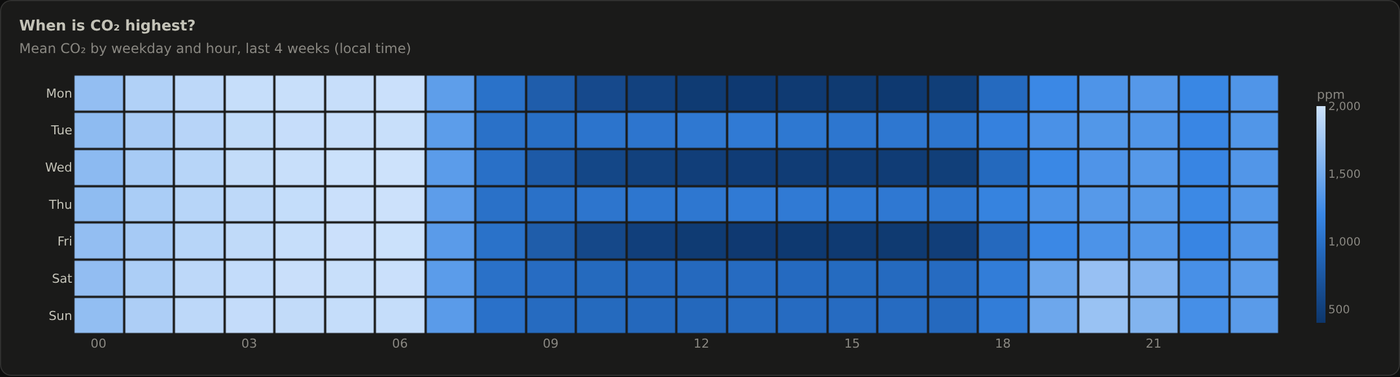
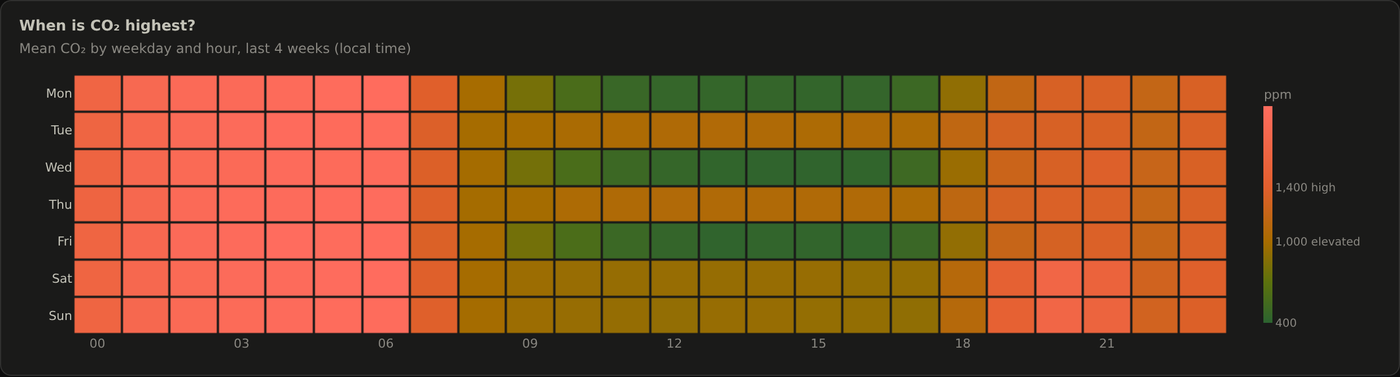
:art: Agent integration: home-sensors (5) (#34)
* :white_check_mark: Test threshold-anchored heatmap colours

:white_check_mark: Cover the new green-amber-red heatmap scale: colour stops sit at
the normalised positions of co2_warn and co2_alert (defaults and a custom
800/1200 pair, with data below and above the 1.15 x alert top), the colour
bar ticks name both thresholds, misconfigured thresholds fall back to
evenly spaced stops, and each theme's ramp is strictly monotonic in
lightness (OKLab L, light darkens and dark lightens toward high CO2).

:recycle: The existing heatmap tests change intentionally: the blue-ramp
end-colour assertions go, and the calm-case zmax moves from 1400 to
alert * 1.15 = 1610.

Refs #33

* :lipstick: Colour the CO2 heatmap by the thresholds

:sparkles: Replace the blue ramp with a green -> amber -> red scale whose stops
sit at the outdoor baseline, halfway to co2_warn, co2_warn, co2_alert and
the top of the scale, so transitions follow ARANET_CO2_WARN/ALERT and match
the status tiles and chart bands. The colour bar is labelled "1,000
elevated" / "1,400 high". The dashboard passes the configured thresholds.

:art: Each theme has its own ramp. Light darkens toward high CO2, dark
lightens (low values recede toward the surface). Validated with the
dataviz validator in both themes: lightness monotone, adjacent steps >=
0.06 L, low end >= 2:1 against the surface. Only the "Single hue" check
is waived, deliberately, as a green -> red ramp cannot satisfy it.
[…]

diff --git a/src/aranet_monitor/web/figures.py b/src/aranet_monitor/web/figures.py
@@ -10,8 +10,18 @@ from plotly.subplots import make_subplots
 
 from aranet_monitor.db.queries import Series
 
-# Sequential blue ramp, steps 100-700 every other step (dataviz palette), light -> dark.
-_BLUE_RAMP = ["#cde2fb", "#9ec5f4", "#6da7ec", "#3987e5", "#256abf", "#184f95", "#0d366b"]
+# Heatmap ramps, low -> high CO2: green (outdoor air) -> amber (elevated) -> red (high).
+# Derived in OKLCH with a fixed lightness schedule (light 0.75 -> 0.49 in steps of 0.065, dark
+# 0.45 -> 0.71 in steps of ~0.065) and the highest in-gamut chroma, hue 140 -> 118 -> 65 -> 36 ->
+# 25 (light) and 145 -> 122 -> 72 -> 40 -> 28 (dark; the amber and orange are nudged warmer so
+# the middle reads as amber rather than olive). Checked with the dataviz validator (--ordinal,
+# surfaces #fcfcfb / #1a1a19): lightness is monotone, every adjacent step is >= 0.06 L and the
+# low end clears 2:1 against the surface. The one deliberate exception is "Single hue": a
+# green -> red ramp spans ~115 degrees by design, so colour-vision safety rests on the monotone
+# lightness plus the labelled thresholds on the colour bar.
+# Light darkens toward high CO2; dark lightens, so low values recede toward the dark surface.
+_HEATMAP_LIGHT = ["#7cc36c", "#92a51f", "#be7100", "#c44018", "#ac262a"]
+_HEATMAP_DARK = ["#2c6330", "#5c720d", "#a76c00", "#e25f2d", "#ff6c5e"]
 
 # Palette validated for colour-vision deficiency. Categorical slots are used in fixed order.
 THEMES = {
@@ -23,7 +33,7 @@ THEMES = {
         "grid": "#e1e0d9",
         "axis": "#c3c2b7",
         "series": ["#2a78d6", "#eb6834", "#1baf7a", "#eda100", "#e87ba4", "#008300"],
-        "sequential": _BLUE_RAMP,
+        "heatmap": _HEATMAP_LIGHT,
     },
     "dark": {
         "surface": "#1a1a19",
@@ -33,8 +43,7 @@ THEMES = {
         "grid": "#2c2c2a",
         "axis": "#383835",
         "series": ["#3987e5", "#d95926", "#199e70", "#c98500", "#d55181", "#008300"],
-        # Low values recede toward the dark surface, high values come forward.
-        "sequential": _BLUE_RAMP[::-1],
+        "heatmap": _HEATMAP_DARK,
     },
 }
 # Smallest y-axis span per panel, so quantisation steps (0.1 °C, 1 %RH) and sensor noise
@@ -338,7 +347,25 @@ def _co2_bands(fig: go.Figure, row: int, s: Series, warn: int, alert: int, th: d
     fig.update_yaxes(range=[max(0, min(lo, 400) - 30), max(top * 1.05, warn * 0.8)], row=row, col=1)
 
 
-def co2_heatmap_figure(data: dict, theme: str = "light") -> go.Figure:
+def _heatmap_colorscale(
+    ramp: list[str], zmin: float, zmax: float, warn: float, alert: float
+) -> list[list]:
+    """Colour stops placed by value: amber at ``warn``, orange-red at ``alert``.
+
+    Falls back to evenly spaced stops when the thresholds don't fit inside the scale (for
+    example ``warn >= alert``), since Plotly needs strictly increasing positions.
+    """
+    values = [zmin, (zmin + warn) / 2, warn, alert, zmax]
+    if not zmin < warn < alert < zmax:
+        return [[i / (len(ramp) - 1), c] for i, c in enumerate(ramp)]
+    pos = [(v - zmin) / (zmax - zmin) for v in values]
+    pos[0], pos[-1] = 0.0, 1.0
+    return [[p, c] for p, c in zip(pos, ramp, strict=True)]
+
+
+def co2_heatmap_figure(
+    data: dict, theme: str = "light", co2_warn: int = 1000, co2_alert: int = 1400
+) -> go.Figure:
     """Mean CO₂ by weekday (rows, Monday on top) and local hour (columns).
 
     Parameters
@@ -347,13 +374,20 @@ def co2_heatmap_figure(data: dict, theme: str = "light") -> go.Figure:
         ``Queries.co2_heatmap`` output: ``weekdays``, ``hours`` and 7 × 24 ``mean``/``count``.
     theme
         ``"light"`` or ``"dark"``.
+    co2_warn, co2_alert
+        The "elevated" and "high" thresholds (ppm); the colour scale is amber at the first and
+        orange-red at the second, and the colour bar labels both. If they don't fit the scale
+        (``warn >= alert`` or ``warn`` at or below the 400 ppm baseline) the stops are spaced
+        evenly and only the baseline tick is drawn, so the bar never shows two labels on one
+        value, a tick off the bar, or "high" below "elevated".
 
     Returns
     -------
     go.Figure
-        One heatmap on the theme's sequential blue ramp. The scale starts at the outdoor
-        baseline (400 ppm) and tops out no lower than 1400 ppm, so a well-ventilated home
-        doesn't look alarming. Empty cells stay blank; every cell has its own hover.
+        One heatmap on the theme's green -> amber -> red ramp. The scale starts at the outdoor
+        baseline (400 ppm) and tops out no lower than 1.15 x ``co2_alert``, so a well-ventilated
+        home doesn't look alarming and the alert colour is never at the very top. Empty cells
+        stay blank; every cell has its own hover.
     """
     th = THEMES[theme]
     days, hours, mean, count = data["weekdays"], data["hours"], data["mean"], data["count"]
@@ -370,7 +404,12 @@ def co2_heatmap_figure(data: dict, theme: str = "light") -> go.Figure:
                 f"{when} · no data" if v is None else f"{when} · <b>{v:,} ppm</b> mean (n={n:,})"
             )
         text.append(cells)
-    ramp = th["sequential"]
+    zmin, zmax = 400, max(co2_alert * 1.15, max(values))
+    if zmin < co2_warn < co2_alert < zmax:
+        tickvals = [zmin, co2_warn, co2_alert]
+        ticktext = [f"{zmin}", f"{co2_warn:,.0f} elevated", f"{co2_alert:,.0f} high"]
+    else:
+        tickvals, ticktext = [zmin], [f"{zmin}"]
     fig = go.Figure(
         go.Heatmap(
             x=hours,
@@ -379,9 +418,9 @@ def co2_heatmap_figure(data: dict, theme: str = "light") -> go.Figure:
             text=text,
             hovertemplate="%{text}<extra></extra>",
             hoverongaps=True,
-            colorscale=[[i / (len(ramp) - 1), c] for i, c in enumerate(ramp)],
-            zmin=400,
-            zmax=max(1400, max(values)),
+            colorscale=_heatmap_colorscale(th["heatmap"], zmin, zmax, co2_warn, co2_alert),
+            zmin=zmin,
+            zmax=zmax,
             xgap=2,
             ygap=2,
             colorbar={
@@ -390,7 +429,9 @@ def co2_heatmap_figure(data: dict, theme: str = "light") -> go.Figure:
                 "outlinewidth": 0,
                 "tickfont": {"size": 10, "color": th["muted"]},
                 "ticks": "",
-                "nticks": 5,
+                "tickmode": "array",
+                "tickvals": tickvals,
+                "ticktext": ticktext,
                 "separatethousands": True,
                 "xpad": 12,
             },

diff --git a/tests/test_figures.py b/tests/test_figures.py
@@ -1,6 +1,8 @@
 from datetime import datetime
 from zoneinfo import ZoneInfo
 
+import pytest
+
 from aranet_monitor.db.queries import Series
 from aranet_monitor.web import figures
 from aranet_monitor.web.dash_app import _parse_relayout, co2_status
@@ -160,26 +162,101 @@ def _heatmap_data(fill=None):
     return {"weekdays": days, "hours": list(range(24)), "mean": mean, "count": count}
 
 
+def _oklab_l(hex_color: str) -> float:
+    def lin(c):
+        c /= 255
+        return c / 12.92 if c <= 0.04045 else ((c + 0.055) / 1.055) ** 2.4
+
+    r, g, b = (lin(int(hex_color[i : i + 2], 16)) for i in (1, 3, 5))
+    ls = (0.4122214708 * r + 0.5363325363 * g + 0.0514459929 * b) ** (1 / 3)
+    ms = (0.2119034982 * r + 0.6806995451 * g + 0.1073969566 * b) ** (1 / 3)
+    ss = (0.0883024619 * r + 0.2817188376 * g + 0.6299787005 * b) ** (1 / 3)
+    return 0.2104542553 * ls + 0.7936177850 * ms - 0.0040720468 * ss
+
+
 def test_co2_heatmap_figure():
     data = _heatmap_data(lambda d, h: None if (d, h) == (6, 3) else 500 + 40 * h + d)
     fig = figures.co2_heatmap_figure(data)
     assert [tr.type for tr in fig.data] == ["heatmap"]
     hm = fig.data[0]
-    assert hm.zmin == 400 and hm.zmax == 1426  # data max (above 1400) sets the top
-    light = figures.THEMES["light"]["sequential"]
+    assert hm.zmin == 400 and hm.zmax == pytest.approx(1610)  # alert * 1.15 beats the data max
+    light = figures.THEMES["light"]["heatmap"]
     assert hm.colorscale[0][1].lower() == light[0] and hm.colorscale[-1][1].lower() == light[-1]
     assert hm.xgap == 2 and hm.ygap == 2
     assert fig.layout.yaxis.autorange == "reversed" and list(hm.y)[0] == "Mon"
     assert hm.z[6][3] is None and "no data" in hm.text[6][3]
     assert "Tue 14:00–15:00" in hm.text[1][14] and "1,061 ppm" in hm.text[1][14]
 
+    dark_ramp = figures.THEMES["dark"]["heatmap"]
     dark = figures.co2_heatmap_figure(data, theme="dark").data[0]
-    assert dark.colorscale[0][1].lower() == light[-1] and dark.colorscale[-1][1].lower() == light[0]
+    assert dark_ramp != light  # the dark theme picks its own stops
+    assert [c.lower() for _, c in dark.colorscale] == dark_ramp
 
 
 def test_co2_heatmap_figure_scale_and_empty():
     calm = figures.co2_heatmap_figure(_heatmap_data(lambda d, h: 600 if h == 9 else 450))
-    assert calm.data[0].zmax == 1400  # a well-ventilated home doesn't fill the ramp
+    assert calm.data[0].zmax == pytest.approx(1610)  # a well-ventilated home doesn't fill the ramp
+    hot = figures.co2_heatmap_figure(_heatmap_data(lambda d, h: 2000)).data[0]
+    assert hot.zmax == 2000
     empty = figures.co2_heatmap_figure(_heatmap_data())
     assert not [tr for tr in empty.data if tr.type == "heatmap"]
     assert "Not enough data" in empty.layout.annotations[0].text
+
+
+@pytest.mark.parametrize(
+    ("warn", "alert"), [(1000, 1400), (800, 1200)], ids=["defaults", "custom-800-1200"]
+)
+@pytest.mark.parametrize("peak", [450, 3000], ids=["data-below", "data-above"])
+@pytest.mark.parametrize("theme", ["light", "dark"])
+def test_co2_heatmap_colour_stops_follow_thresholds(warn, alert, peak, theme):
+    data = _heatmap_data(lambda d, h: peak if (d, h) == (2, 12) else 500)
+    hm = figures.co2_heatmap_figure(data, theme, co2_warn=warn, co2_alert=alert).data[0]
+    zmin, zmax = hm.zmin, hm.zmax
+    assert zmax == pytest.approx(max(alert * 1.15, peak))
+    pos = [p for p, _ in hm.colorscale]
+    assert pos[0] == 0 and pos[-1] == 1 and pos == sorted(set(pos))  # Plotly's requirements
+    ramp = figures.THEMES[theme]["heatmap"]
+    assert [c.lower() for _, c in hm.colorscale] == ramp
+    value = lambda p: zmin + p * (zmax - zmin)  # noqa: E731
+    assert value(pos[1]) == pytest.approx((zmin + warn) / 2)
+    assert value(pos[2]) == pytest.approx(warn)  # amber at "elevated"
+    assert value(pos[3]) == pytest.approx(alert)  # orange-red at "high"
+    # Same story on the colour bar, in words as well as colour.
+    cb = hm.colorbar
+    assert list(cb.tickvals) == [400, warn, alert]
+    assert "elevated" in cb.ticktext[1] and f"{warn:,}" in cb.ticktext[1]
+    assert "high" in cb.ticktext[2] and f"{alert:,}" in cb.ticktext[2]
+    assert cb.nticks is None
+
+
+@pytest.mark.parametrize(("warn", "alert"), [(1400, 1000), (1000, 1000), (300, 1400)])
+def test_co2_heatmap_misconfigured_thresholds_space_stops_evenly(warn, alert):
+    data = _heatmap_data(lambda d, h: 700)
+    hm = figures.co2_heatmap_figure(data, co2_warn=warn, co2_alert=alert).data[0]
+    pos = [p for p, _ in hm.colorscale]
+    assert pos == pytest.approx([i / (len(pos) - 1) for i in range(len(pos))])
+
+
+def test_heatmap_ramps_are_monotonic_in_lightness():
+    for theme, sign in (("light", -1), ("dark", 1)):
+        # light: darker toward high CO2; dark: lighter (low values recede toward the surface)
+        ls = [_oklab_l(c) for c in figures.THEMES[theme]["heatmap"]]
+        steps = [b - a for a, b in zip(ls, ls[1:], strict=False)]
+        assert all(sign * d >= 0.06 for d in steps), (theme, ls)
+
+
+@pytest.mark.parametrize(("warn", "alert"), [(1400, 1000), (1000, 1000), (400, 1400), (300, 1400)])
+def test_co2_heatmap_misconfigured_thresholds_label_nothing_misleading(warn, alert):
+    data = _heatmap_data(lambda d, h: 700)
+    hm = figures.co2_heatmap_figure(data, co2_warn=warn, co2_alert=alert).data[0]
+    ticks = list(hm.colorbar.tickvals)
+    assert len(ticks) == len(set(ticks))  # never two labels on one value
+    assert all(hm.zmin <= t <= hm.zmax for t in ticks)  # nothing off the bar
+    assert ticks == sorted(ticks)
+    assert not any("elevated" in t or "high" in t for t in hm.colorbar.ticktext)
+
+
+def test_co2_heatmap_threshold_labels_never_show_decimals():
+    data = _heatmap_data(lambda d, h: 700)
+    hm = figures.co2_heatmap_figure(data, co2_warn=1000.0, co2_alert=1400.0).data[0]
+    assert list(hm.colorbar.ticktext) == ["400", "1,000 elevated", "1,400 high"]

diff --git a/src/aranet_monitor/web/dash_app.py b/src/aranet_monitor/web/dash_app.py
@@ -493,7 +493,9 @@ def create_dash_app(queries: Queries, settings: Settings) -> dash.Dash:
             return figures.empty_figure("No readings yet", theme)
         start, end = recent_hours(HEATMAP_DAYS)
         data = queries.co2_heatmap(latest_info["device"], start, end, tz)
-        return figures.co2_heatmap_figure(data, theme)
+        return figures.co2_heatmap_figure(
+            data, theme, co2_warn=settings.co2_warn, co2_alert=settings.co2_alert
+        )
 
     # ---------------------------------------------------------------- events
     @app.callback(Output("events", "children"), Input("latest-ts", "data"))

diff --git a/docs/ARCHITECTURE.md b/docs/ARCHITECTURE.md
@@ -106,4 +106,4 @@ The dashboard requests at most 1500 points for windows up to 24 h, which keeps 1
   - **Filtering in the browser:** Plotly also emits `relayoutData` for its own reasons (autosize after the first draw, a dragmode change). Those must never reach the server, or they cancel a preset click that is still in flight. A client-side function (`assets/app.js`, `aranet.zoomRequest`) passes only real x-range zooms and autorange resets into a `zoom-req` store; `choose_window` listens to that store.
   - **Zooming and resetting:** a zoom becomes a new window and a re-query at finer resolution. Double-click returns to the preset, and a stable `uirevision` keeps the zoom across refreshes.
 - **Local time on the x-axis.** Plotly has no time-zone-aware axis, so timestamps are drawn as naive local times. On the DST fall-back night local time repeats an hour; the figure inserts a break wherever x goes backwards, so the repeated hour is drawn as its own segment. The min–max envelope is one closed polygon per contiguous segment, so it never bridges a gap.
-- **Weekly pattern.** The "When is CO₂ highest?" heatmap comes from `Queries.co2_heatmap`. The window is split into pieces of constant UTC offset, one per DST change. Each piece runs one grouped `SELECT` over `readings_hourly`, keyed on `((hour + :utc_offset) / 3600) % 168`, the hour of the week. The sums and counts are merged per cell, so the means are exact.
+- **Weekly pattern.** The "When is CO₂ highest?" heatmap comes from `Queries.co2_heatmap`. The window is split into pieces of constant UTC offset, one per DST change. Each piece runs one grouped `SELECT` over `readings_hourly`, keyed on `((hour + :utc_offset) / 3600) % 168`, the hour of the week. The sums and counts are merged per cell, so the means are exact. The figure colours cells green → amber → red, with the transitions at `ARANET_CO2_WARN` and `ARANET_CO2_ALERT` (labelled on the colour bar), so it agrees with the status tiles and chart bands.

diff --git a/README.md b/README.md
@@ -98,7 +98,7 @@ The same SQLAlchemy Core code runs on **SQLite and Postgres**, and CI tests both
   - CO₂ threshold bands;
   - range presets from 1 h to 1 y, plus custom dates;
   - drag-to-zoom reloads finer data.
-- **The answer to "when do I need to ventilate?"** A weekday × hour heatmap of mean CO₂:
+- **The answer to "when do I need to ventilate?"** A weekday × hour heatmap of mean CO₂, coloured by the CO₂ thresholds (green, amber at "elevated", red at "high"):
 
   <picture>
     <source media="(prefers-color-scheme: dark)" srcset="docs/img/heatmap-dark.png">
